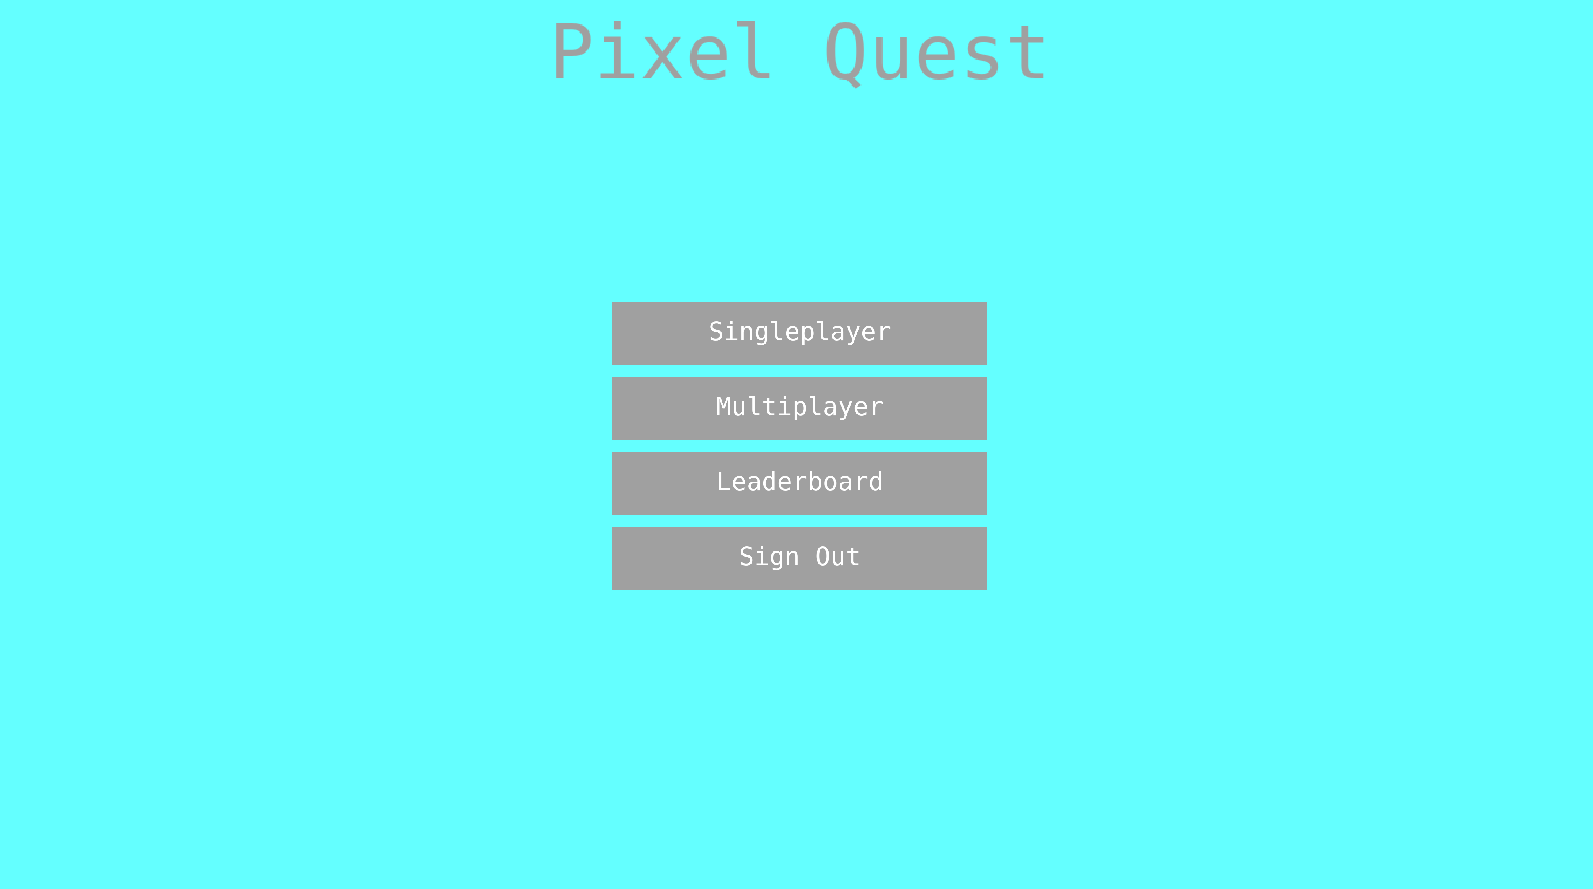
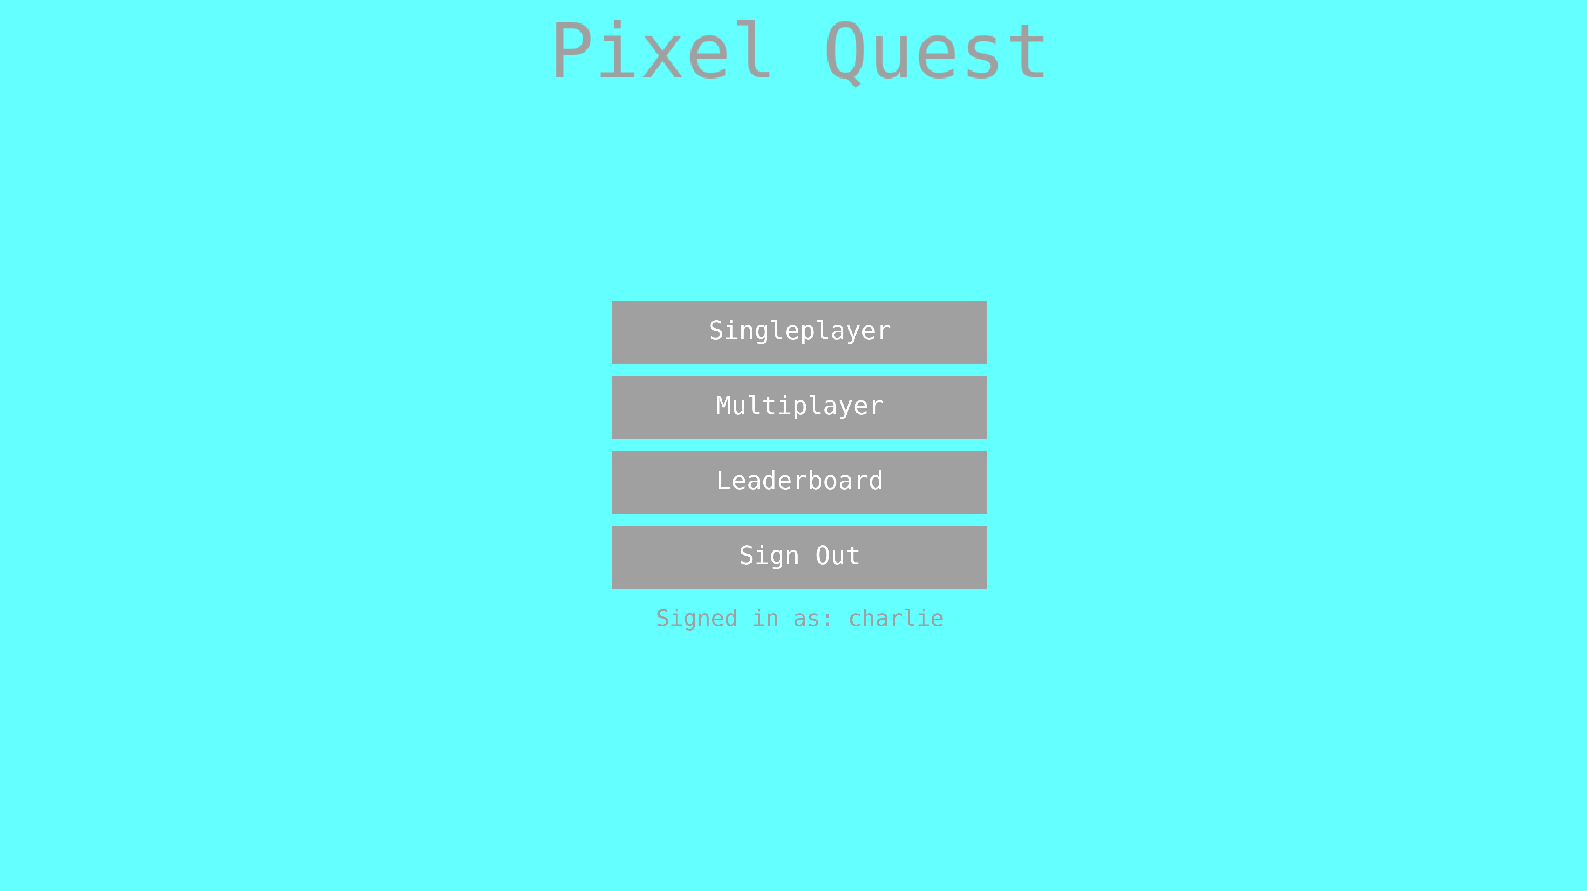
GITBOOK-128: change request with no subject merged in GitBook

Changed region(s): [[0.3705, 0.3341, 0.6175, 0.6985], [0.3396, 0.0304, 0.494, 0.0911], [0.5249, 0.0304, 0.6484, 0.0911]]

diff --git a/2-design-and-development/cycle-14.md b/2-design-and-development/cycle-14.md
@@ -9,9 +9,9 @@ In this cycle, I will be writing a simple title screen for my game. As laid out 
 * [x] Initialise Kaboom.js with 1280x720 resolution and lught blue background.
 * [x] Display name of game "Pixel Quest" in large text at top of screen.
 * [x] Get ID from cookie and obtain username from it.
-* [ ] If a username is found, render multiplayer and leaderboard buttons and display the username in text below.
-* [ ] Render singleplayer and sign in/out buttons, with the latter text depending on whether the player is signed in.
-* [ ] Continually check for the buttons being clicked and for now, simply log to console what button is being clicked.
+* [x] If a username is found, render multiplayer and leaderboard buttons and display the username in text below.
+* [x] Render singleplayer and sign in/out buttons, with the latter text depending on whether the player is signed in.
+* [x] Continually check for the buttons being clicked and for now, simply log to console what button is being clicked.
 
 ### Usability Features
 
@@ -30,11 +30,34 @@ In this cycle, I will be writing a simple title screen for my game. As laid out 
 
 ### Outcome
 
-
+At the end of this cycle, I have written most of the code for the title screen. This will greet all players when they access the website where the game is hosted. Signed in users will be presented with all four buttons, while those not signed in will only have access to singleplayer mode and the sign in button.
 
 ### Challenges
 
+The first issue I encountered was getting the title text in the right place. By default, Kaboom.js puts the top left corner of the sprite at the coordinates provided in the "pos" (position) property. I wanted Kaboom.js to put the centre of the sprite at these given coordinates, which saves time as I won't have to figure how many pixels I need to add/take away from the position in order to get the sprite where I want.
 
+Fortunately, this can be achieved through using the "anchor" property and specifying "center". However, this means both the vertical and horizontal middle of the sprite is placed at the given coordinates. Therefore, in this code below, when I specified I wanted the sprite at the horizontal middle and at the very top of the screen, this resulted in the top half being cut off.
+
+{% code title="public/game.js" %}
+```javascript
+// Add title text
+add([
+    text("Pixel Quest", {
+        size: 60
+    }), // "Pixel Quest" at size 60px
+    color(160, 160, 160), // Grey colour
+    area(),
+    pos(center().x, 0), // Display at horizontal middle, top of screen
+    anchor("center") // Centre of sprite is specified coordinates
+])
+```
+{% endcode %}
+
+The solution was to change the y-coordinate of the "pos" property to move the text a bit further down. I set it to 50 and refreshed the page and decided that was a good place.
+
+```javascript
+pos(center().x, 50), // Display at horizontal middle, 50px away from top
+```
 
 ## Testing
 
@@ -42,7 +65,7 @@ Evidence for testing
 
 ### Tests
 
-<table><thead><tr><th width="95">Test</th><th width="158">Instructions</th><th width="171">What I expect</th><th width="174">What actually happens</th><th>Pass/Fail</th></tr></thead><tbody><tr><td>1</td><td>Initialise Kaboom.js engine with light blue background and 1280x720 resolution.</td><td>Light blue area displayed starting from top left corner of page of size 1280x720.</td><td>As expected</td><td>Pass</td></tr><tr><td>2</td><td>Render "Pixel Quest" title at top of title screen.</td><td>Grey large text saying "Pixel Quest" at top of Kaboom.js area.</td><td>Text appears but is cut off so only the bottom half is visible.</td><td>Fail</td></tr><tr><td>3</td><td>Increase the Y-coordinate of the title text so the text appears further down.</td><td>Grey large text saying "Pixel Quest" at top of Kaboom.js area.</td><td>As expected</td><td>Pass</td></tr><tr><td>4</td><td>If "id" cookie is empty, display browser alert saying the player isn't signed in.</td><td>Browser alert appears if the player is not signed in, telling them such.</td><td>As expected</td><td>Pass</td></tr><tr><td>5</td><td>If "id" cookie has a value, use Socket.IO events created in Cycle 13 to obtain username and display it in alert. </td><td>Browser alert appears if player is signed in, telling them their username.</td><td>As expected</td><td>Pass</td></tr><tr><td>6</td><td>If the player is signed in, display all four buttons in the centre of the screen.</td><td>All four buttons appear in the centre of the screen for signed in users.</td><td>As expected</td><td>Pass</td></tr><tr><td>7</td><td>Display only the singleplayer and sign out buttons in the centre of the screen to signed out players.</td><td>Singleplayer and sign out buttons appear in the centre of the screen for signed out users.</td><td>As expected</td><td>Pass</td></tr><tr><td>8</td><td>Output to the console when the player clicks a button.</td><td>The name of the button (e.g. "singleplayer") is outputted alongside a brief message to the console when clicked.</td><td>TypeError: cannot read properties of undefined (reading 'onClick')</td><td>Fail</td></tr></tbody></table>
+<table><thead><tr><th width="95">Test</th><th width="158">Instructions</th><th width="171">What I expect</th><th width="174">What actually happens</th><th>Pass/Fail</th></tr></thead><tbody><tr><td>1</td><td>Initialise Kaboom.js engine with light blue background and 1280x720 resolution.</td><td>Light blue area displayed starting from top left corner of page of size 1280x720.</td><td>As expected</td><td>Pass</td></tr><tr><td>2</td><td>Render "Pixel Quest" title at top of title screen.</td><td>Grey large text saying "Pixel Quest" at top of Kaboom.js area.</td><td>Text appears but is cut off so only the bottom half is visible.</td><td>Fail</td></tr><tr><td>3</td><td>Increase the Y-coordinate of the title text so the text appears further down.</td><td>Grey large text saying "Pixel Quest" at top of Kaboom.js area.</td><td>As expected</td><td>Pass</td></tr><tr><td>4</td><td>If "id" cookie is empty, display browser alert saying the player isn't signed in.</td><td>Browser alert appears if the player is not signed in, telling them such.</td><td>As expected</td><td>Pass</td></tr><tr><td>5</td><td>If "id" cookie has a value, use Socket.IO events created in Cycle 13 to obtain username and display it in alert. </td><td>Browser alert appears if player is signed in, telling them their username.</td><td>As expected</td><td>Pass</td></tr><tr><td>6</td><td>If the player is signed in, display all four buttons in the centre of the screen.</td><td>All four buttons appear in the centre of the screen for signed in users.</td><td>As expected</td><td>Pass</td></tr><tr><td>7</td><td>Display only the singleplayer and sign out buttons in the centre of the screen to signed out players.</td><td>Singleplayer and sign out buttons appear in the centre of the screen for signed out users.</td><td>As expected</td><td>Pass</td></tr><tr><td>8</td><td>Output to the console when the player clicks a button.</td><td>The intended action of the button (e.g. "singleplayer") is outputted alongside a brief message to the console when clicked.</td><td>TypeError: cannot read properties of undefined (reading 'onClick')</td><td>Fail</td></tr><tr><td>9</td><td>Move click functions so they are placed right after the buttons and text are rendered.</td><td>The intended action of the button (e.g. "singleplayer") is outputted alongside a brief message to the console when clicked.</td><td>As expected</td><td>Pass</td></tr><tr><td>10</td><td>If the player is signed in, display their username in small text beneath all the buttons.</td><td>Username displayed below buttons in small text if the player is signed in.</td><td>As expected</td><td>Pass</td></tr></tbody></table>
 
 ### Evidence
 
@@ -56,8 +79,14 @@ Evidence for testing
 
 <figure><img src="../.gitbook/assets/image (18).png" alt=""><figcaption><p>Test 5: Browser alert containing username for signed in players</p></figcaption></figure>
 
-<figure><img src="../.gitbook/assets/image.png" alt=""><figcaption><p>Test 6: All four menu buttons appear on title screen when signed in</p></figcaption></figure>
+<figure><img src="../.gitbook/assets/image (1).png" alt=""><figcaption><p>Test 6: All four menu buttons appear on title screen when signed in</p></figcaption></figure>
 
-<figure><img src="../.gitbook/assets/image (1).png" alt=""><figcaption><p>Test 7: For signed out users, only the singleplayer and sign in buttons appear</p></figcaption></figure>
+<figure><img src="../.gitbook/assets/image (1) (3).png" alt=""><figcaption><p>Test 7: For signed out users, only the singleplayer and sign in buttons appear</p></figcaption></figure>
 
-<figure><img src="../.gitbook/assets/image (2).png" alt=""><figcaption><p>Test 8: The game checks whether the player is signed in or not before defining the button sprites, which breaks the onClick function used to register the mouse clicking the button</p></figcaption></figure>
+<figure><img src="../.gitbook/assets/image (2).png" alt=""><figcaption><p>Test 8: TypeError cannot read properties of undefined (reading 'onClick')</p></figcaption></figure>
+
+{% embed url="https://youtu.be/ULO3KcZr2rU" %}
+Test 9: Short message outputted to console on clicking a button
+{% endembed %}
+
+<figure><img src="../.gitbook/assets/image.png" alt=""><figcaption><p>Test 10: Username displayed below buttons when the player is signed in</p></figcaption></figure>
